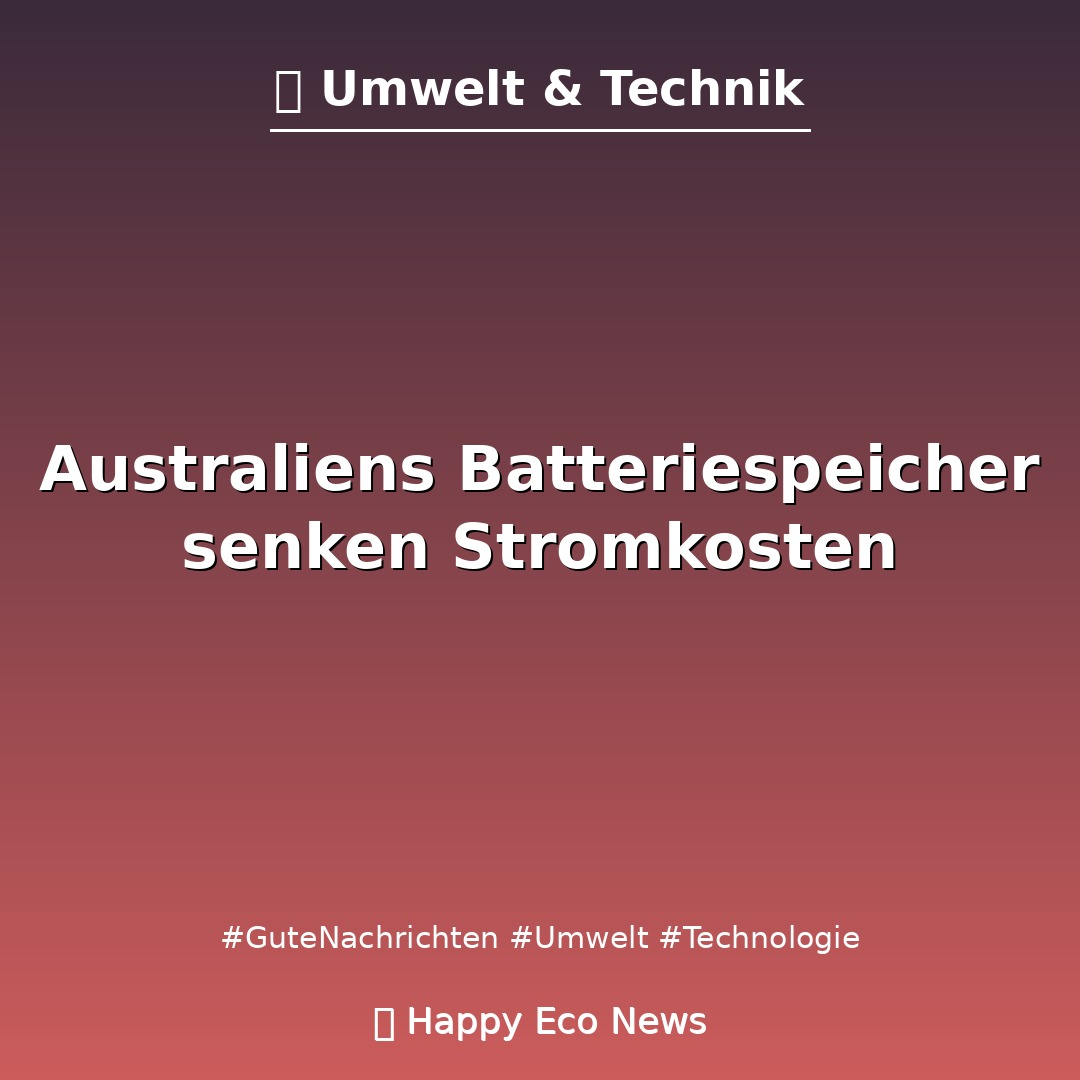
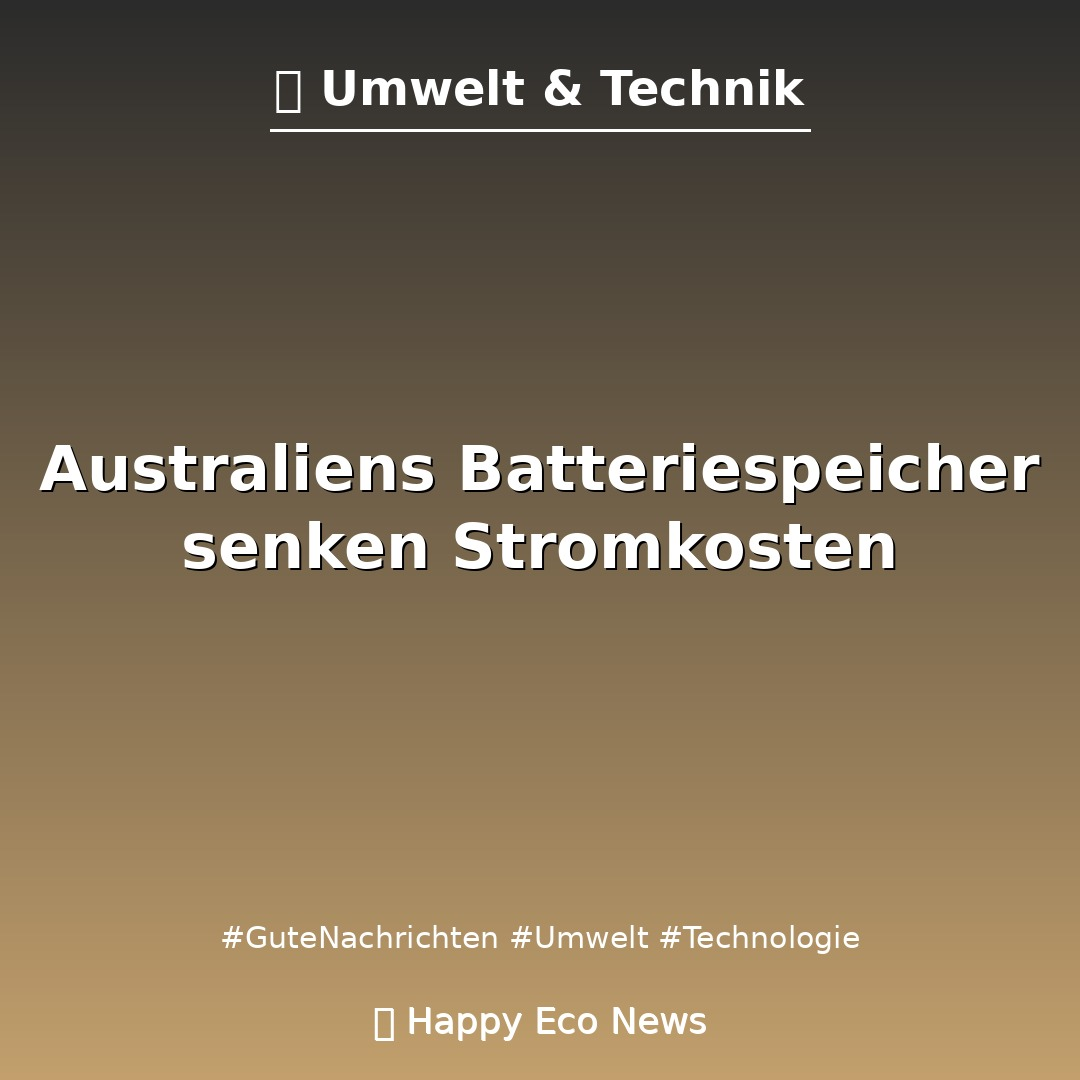
🤖 Aktualisiere deutschen Pipeline-Text

diff --git a/content/posts/2026-10-07-australiens-batteriespeicher-senken-stromkosten/index.md b/content/posts/2026-10-07-australiens-batteriespeicher-senken-stromkosten/index.md
@@ -7,16 +7,16 @@ published: "Wed, 07 Oct 2026 07:00:00 +0000"
 slug: "australiens-batteriespeicher-senken-stromkosten"
 ---
 
-Australien hat einen wichtigen Energiemeilenstein erreicht: Mehr als 500.000 Batteriespeicher stehen inzwischen in Haushalten. Das Land installiert rund 2.000 Anlagen pro Tag. Auslöser ist ein staatliches Förderprogramm. Das Programm „Cheaper Home Batteries“ startete am 1. Juli 2025.
+Australien hat einen Energiemeilenstein erreicht: Mehr als 500.000 Batteriespeicher stehen in Haushalten. Das Land installiert rund 2.000 Anlagen pro Tag. Ein staatliches Förderprogramm startete am 1. Juli 2025.
 
-Australien führt weltweit bei Solaranlagen auf Hausdächern. Mehr als jedes dritte Haus nutzt bereits Solarstrom. Tagsüber entsteht dadurch oft mehr Strom, als Familien benötigen. Ohne Speicher bleibt ein Teil dieser Energie ungenutzt. Batterien nehmen den Überschuss auf. Abends geben sie ihn zurück, wenn Verbrauch und Strompreise steigen.
+Australien führt weltweit bei Solaranlagen auf Hausdächern. Mehr als jedes dritte Haus nutzt bereits Solarstrom. Tagsüber entsteht oft mehr Strom, als Familien benötigen. Batterien speichern diesen Überschuss. Abends geben sie ihn zurück, wenn Verbrauch und Strompreise steigen.
 
 Die finanziellen Effekte sind konkret. Haushalte mit bestehender Solaranlage können bis zu 1.100 australische Dollar jährlich sparen. Wer Solaranlage und Batterie gemeinsam installiert, kann bis zu 2.300 Dollar sparen. Das entspricht laut dem Bericht fast 90 Prozent der typischen Stromkosten einer Familie.
 
-Anne und Colin Tegg aus Queensland zeigen, wie das im Alltag aussieht. Sie installierten ihre Batterie im März 2026. Zuvor war ihnen die Technik zu teuer. Jetzt speichert ihr System Solarstrom vom Tag. Am Abend versorgt es damit das Haus.
+Anne und Colin Tegg aus Queensland installierten ihre Batterie im März 2026. Zuvor war ihnen die Technik zu teuer. Jetzt speichert ihr System Solarstrom vom Tag. Am Abend versorgt es damit das Haus.
 
-Der Boom verändert auch das Stromnetz. Viele Speicher liefern Energie genau dann, wenn die Nachfrage wächst. Dadurch sinkt der Druck auf Kraftwerke und Leitungen. Gleichzeitig können Haushalte mehr eigenen Solarstrom nutzen. Das macht sie weniger abhängig von schwankenden Strompreisen.
+Der Boom verändert auch das Stromnetz. Speicher liefern Energie, wenn die Nachfrage wächst. Dadurch sinkt der Druck auf Kraftwerke und Leitungen. Haushalte nutzen mehr eigenen Solarstrom und werden unabhängiger von schwankenden Preisen.
 
-Die Entwicklung hat Grenzen. Eine Batterie erzeugt keinen Strom. Sie verschiebt ihn nur zeitlich. Ihre Klimawirkung hängt außerdem vom Strommix, der Lebensdauer und dem Recycling ab. Trotzdem zeigt Australiens Beispiel, wie Förderungen eine Technologie schnell in den Alltag bringen können.
+Eine Batterie erzeugt keinen Strom. Sie verschiebt ihn nur zeitlich. Ihre Klimawirkung hängt vom Strommix, der Lebensdauer und dem Recycling ab. Australiens Beispiel zeigt, wie Förderungen Technik schnell in den Alltag bringen können.
 
 🔗 **Quelle:** [https://happyeconews.com/half-a-million-cheaper-home-battery-storage/](https://happyeconews.com/half-a-million-cheaper-home-battery-storage/)
